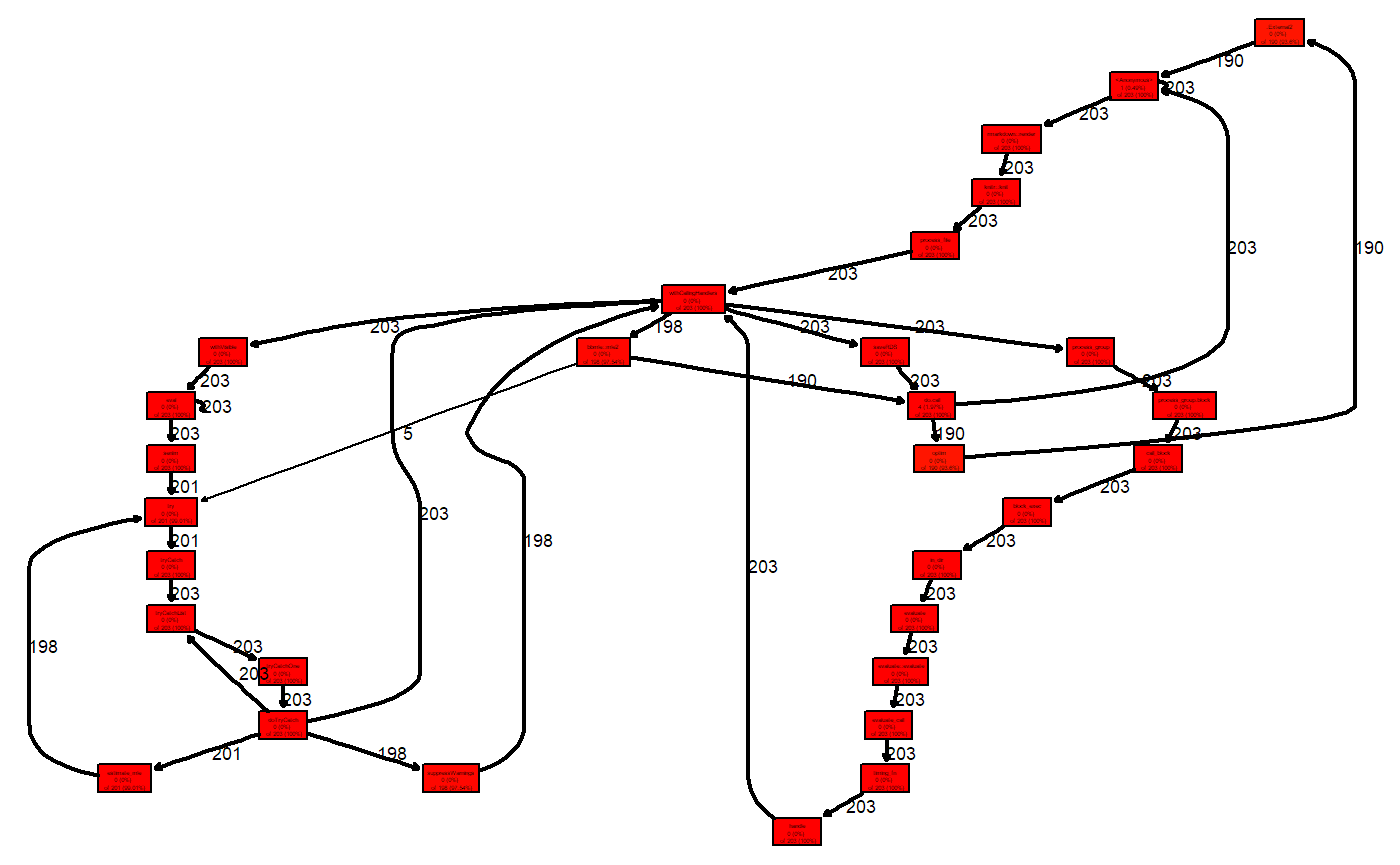
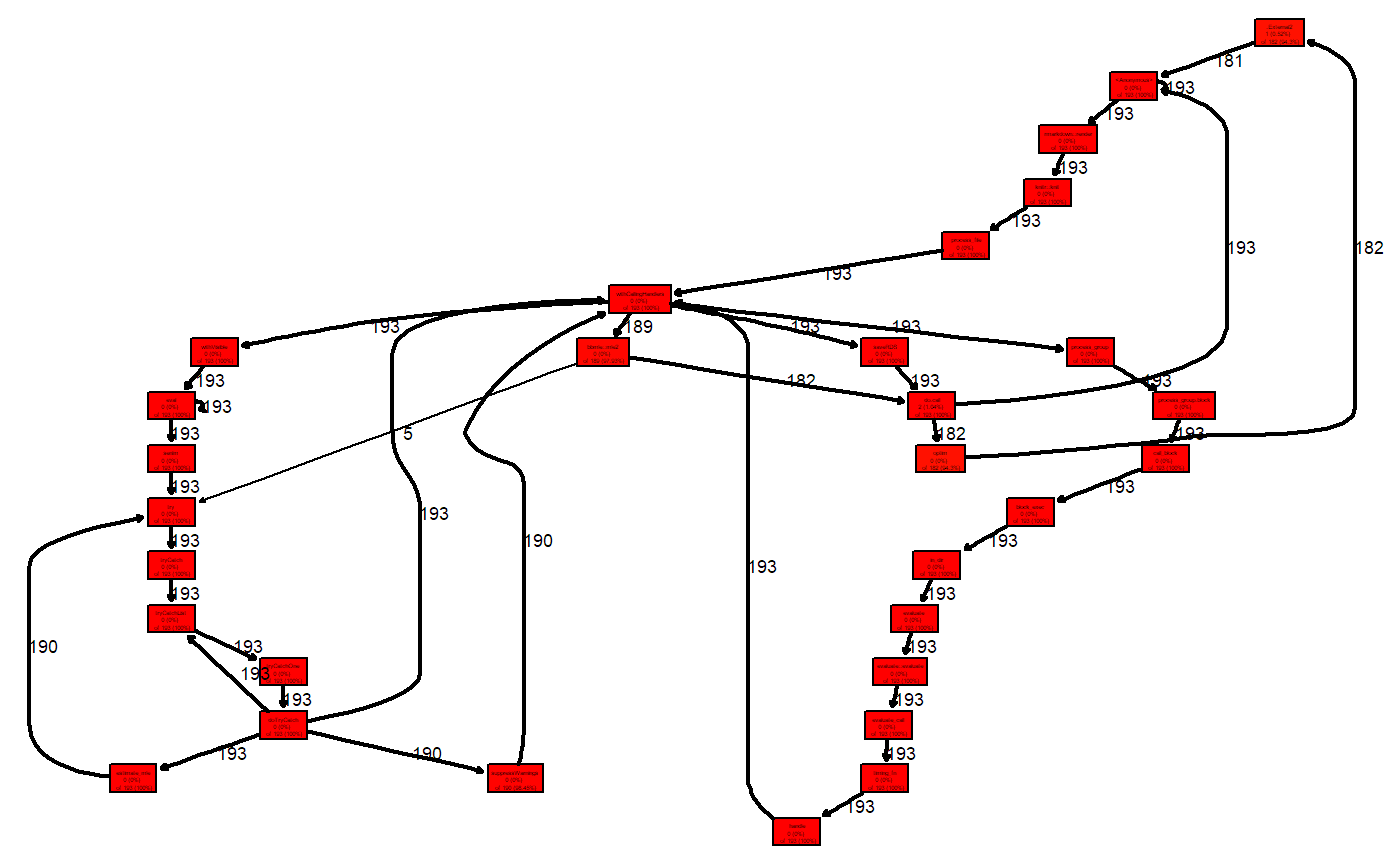
Rebuild the package's website.

diff --git a/docs/articles/performance_analysis.html b/docs/articles/performance_analysis.html
@@ -140,63 +140,60 @@
 <a class="sourceLine" id="cb2-4" title="4"><span class="co">## --- Summarise the Profiling Data --- #</span></a>
 <a class="sourceLine" id="cb2-5" title="5"><span class="kw">pathSummary</span>(pd)</a>
 <a class="sourceLine" id="cb2-6" title="6"><span class="co">#&gt;                                                    total.pct</span></a>
-<a class="sourceLine" id="cb2-7" title="7"><span class="co">#&gt; ...  fn -&gt; do.call -&gt; minuslogl -&gt; NLL.discrete        26.60</span></a>
-<a class="sourceLine" id="cb2-8" title="8"><span class="co">#&gt; ...  NLL.discrete -&gt; do.call -&gt; mu_gaussian            13.79</span></a>
-<a class="sourceLine" id="cb2-9" title="9"><span class="co">#&gt; ...  check_par_valid -&gt; make_bounded                    7.88</span></a>
-<a class="sourceLine" id="cb2-10" title="10"><span class="co">#&gt; ...  minuslogl -&gt; NLL.discrete -&gt; NLL.negbin            4.43</span></a>
-<a class="sourceLine" id="cb2-11" title="11"><span class="co">#&gt; ...  minuslogl -&gt; NLL.discrete -&gt; make_bounded          3.94</span></a>
-<a class="sourceLine" id="cb2-12" title="12"><span class="co">#&gt; ...  NLL.discrete -&gt; NLL.negbin -&gt; lfactorial           3.45</span></a>
-<a class="sourceLine" id="cb2-13" title="13"><span class="co">#&gt; ...  optim -&gt; .External2 -&gt; &lt;Anonymous&gt; -&gt; fn           2.96</span></a>
-<a class="sourceLine" id="cb2-14" title="14"><span class="co">#&gt; ...  do.call -&gt; mu_gaussian -&gt; as.list                  2.96</span></a>
-<a class="sourceLine" id="cb2-15" title="15"><span class="co">#&gt; ...  relist2 -&gt; sapply -&gt; simplify2array -&gt; unique      2.46</span></a>
-<a class="sourceLine" id="cb2-16" title="16"><span class="co">#&gt; ...  fn -&gt; relist2 -&gt; sapply -&gt; lapply                  2.46</span></a>
-<a class="sourceLine" id="cb2-17" title="17"><span class="co">#&gt; ...  fn -&gt; do.call -&gt; namedrop -&gt; seq                   2.46</span></a>
-<a class="sourceLine" id="cb2-18" title="18"><span class="co">#&gt; ...  simplify2array -&gt; unique -&gt; unique.default         1.48</span></a>
-<a class="sourceLine" id="cb2-19" title="19"><span class="co">#&gt; ...  NLL.discrete -&gt; NLL.negbin -&gt; sum                  1.48</span></a>
-<a class="sourceLine" id="cb2-20" title="20"><span class="co">#&gt; ...  NLL.discrete -&gt; check_par_valid -&gt; $               1.48</span></a>
-<a class="sourceLine" id="cb2-21" title="21"><span class="co">#&gt; ...  fn -&gt; relist2 -&gt; sapply -&gt; lapply -&gt; FUN           1.48</span></a>
-<a class="sourceLine" id="cb2-22" title="22"><span class="co">#&gt; ...  &lt;Anonymous&gt; -&gt; fn -&gt; do.call -&gt; namedrop           1.48</span></a>
-<a class="sourceLine" id="cb2-23" title="23"><span class="co">#&gt; ...  relist2 -&gt; sapply -&gt; simplify2array -&gt; unlist      0.99</span></a>
-<a class="sourceLine" id="cb2-24" title="24"><span class="co">#&gt; ...  minuslogl -&gt; NLL.discrete -&gt; do.call               0.99</span></a>
-<a class="sourceLine" id="cb2-25" title="25"><span class="co">#&gt; ...  func -&gt; do.call -&gt; minuslogl -&gt; NLL.discrete       0.99</span></a>
-<a class="sourceLine" id="cb2-26" title="26"><span class="co">#&gt; ...  fn -&gt; relist2 -&gt; as.list -&gt; as.list.default        0.99</span></a>
-<a class="sourceLine" id="cb2-27" title="27"><span class="co">#&gt; ...  fn -&gt; do.call -&gt; namedrop -&gt; unique                0.99</span></a>
-<a class="sourceLine" id="cb2-28" title="28"><span class="co">#&gt; ...  do.call -&gt; namedrop -&gt; seq -&gt; seq.default          0.99</span></a>
-<a class="sourceLine" id="cb2-29" title="29"><span class="co">#&gt; ...  &lt;Anonymous&gt; -&gt; fn -&gt; relist2 -&gt; sapply             0.99</span></a>
-<a class="sourceLine" id="cb2-30" title="30"><span class="co">#&gt; ...  sapply -&gt; simplify2array -&gt; unique -&gt; lengths      0.49</span></a>
-<a class="sourceLine" id="cb2-31" title="31"><span class="co">#&gt; ...  registerS3methods -&gt; get -&gt; lazyLoadDBfetch        0.49</span></a>
-<a class="sourceLine" id="cb2-32" title="32"><span class="co">#&gt; ...  nlminb -&gt; .Call -&gt; objective -&gt; do.call            0.49</span></a>
-<a class="sourceLine" id="cb2-33" title="33"><span class="co">#&gt; ...  NLL.discrete -&gt; check_par_valid -&gt; any             0.49</span></a>
-<a class="sourceLine" id="cb2-34" title="34"><span class="co">#&gt; ...  mu_gaussian -&gt; as.list -&gt; as.list.default          0.49</span></a>
-<a class="sourceLine" id="cb2-35" title="35"><span class="co">#&gt; ...  minuslogl -&gt; NLL.discrete -&gt; do.call -&gt; paste      0.49</span></a>
-<a class="sourceLine" id="cb2-36" title="36"><span class="co">#&gt; ...  minuslogl -&gt; NLL.discrete -&gt; check_par_valid       0.49</span></a>
-<a class="sourceLine" id="cb2-37" title="37"><span class="co">#&gt; ...  fn -&gt; relist2 -&gt; sapply -&gt; simplify2array          0.49</span></a>
-<a class="sourceLine" id="cb2-38" title="38"><span class="co">#&gt; ...  fn -&gt; relist2 -&gt; sapply -&gt; match.fun               0.49</span></a>
-<a class="sourceLine" id="cb2-39" title="39"><span class="co">#&gt; ...  fn -&gt; relist2 -&gt; sapply -&gt; isFALSE                 0.49</span></a>
-<a class="sourceLine" id="cb2-40" title="40"><span class="co">#&gt; ...  fn -&gt; namedrop -&gt; seq -&gt; seq.default -&gt; nargs      0.49</span></a>
-<a class="sourceLine" id="cb2-41" title="41"><span class="co">#&gt; ...  fit_information_criteria -&gt; make_unbounded         0.49</span></a>
-<a class="sourceLine" id="cb2-42" title="42"><span class="co">#&gt; ...  eval -&gt; senlm -&gt; set_nll -&gt; lazyLoadDBfetch        0.49</span></a>
-<a class="sourceLine" id="cb2-43" title="43"><span class="co">#&gt; ...  do.call -&gt; optim -&gt; .External2 -&gt; &lt;Anonymous&gt;      0.49</span></a>
-<a class="sourceLine" id="cb2-44" title="44"><span class="co">#&gt; ...  do.call -&gt; minuslogl -&gt; NLL.discrete -&gt; sum        0.49</span></a>
-<a class="sourceLine" id="cb2-45" title="45"><span class="co">#&gt; ...  do.call -&gt; minuslogl -&gt; NLL.discrete -&gt; $          0.49</span></a>
-<a class="sourceLine" id="cb2-46" title="46"><span class="co">#&gt; ...  &lt;Anonymous&gt; -&gt; lazyLoadDBfetch                     0.49</span></a>
-<a class="sourceLine" id="cb2-47" title="47"><span class="co">#&gt; ...  &lt;Anonymous&gt; -&gt; fn -&gt; relist2 -&gt; as.list            0.49</span></a>
-<a class="sourceLine" id="cb2-48" title="48"><span class="co">#&gt; ...  &lt;Anonymous&gt; -&gt; fn -&gt; namedrop -&gt; seq               0.49</span></a>
-<a class="sourceLine" id="cb2-49" title="49"><span class="co">#&gt; ...  &lt;Anonymous&gt; -&gt; fn -&gt; namedrop -&gt; length            0.49</span></a>
-<a class="sourceLine" id="cb2-50" title="50"><span class="co">#&gt; ...  .TableMetaName -&gt; methodsPackageMetaName           0.49</span></a>
-<a class="sourceLine" id="cb2-51" title="51"><span class="co">#&gt; ...  .External2 -&gt; &lt;Anonymous&gt; -&gt; fn -&gt; relist2         0.49</span></a>
-<a class="sourceLine" id="cb2-52" title="52"><span class="co">#&gt; ...  .External2 -&gt; &lt;Anonymous&gt; -&gt; fn -&gt; order           0.49</span></a>
-<a class="sourceLine" id="cb2-53" title="53"><span class="co">#&gt; ...  .External2 -&gt; &lt;Anonymous&gt; -&gt; fn -&gt; namedrop        0.49</span></a>
-<a class="sourceLine" id="cb2-54" title="54"><span class="co">#&gt; ...  .External2 -&gt; &lt;Anonymous&gt; -&gt; fn -&gt; do.call         0.49</span></a>
-<a class="sourceLine" id="cb2-55" title="55"><span class="co">##funSummary(pd)</span></a>
-<a class="sourceLine" id="cb2-56" title="56"><span class="co">##callSummary(pd)</span></a>
-<a class="sourceLine" id="cb2-57" title="57"><span class="co">##hotPaths(pd)</span></a>
-<a class="sourceLine" id="cb2-58" title="58"><span class="co">##flatProfile(pd)</span></a>
-<a class="sourceLine" id="cb2-59" title="59"></a>
-<a class="sourceLine" id="cb2-60" title="60"><span class="co">## --- Annotate Sourcecode with Profiling Data -- #</span></a>
-<a class="sourceLine" id="cb2-61" title="61"><span class="co"># annotateSource is very useful, but won't work within a vignette.</span></a>
-<a class="sourceLine" id="cb2-62" title="62"><span class="co">#annotateSource(pd, show = TRUE)</span></a>
-<a class="sourceLine" id="cb2-63" title="63"><span class="co">##srcSummary(pd)</span></a></code></pre></div>
+<a class="sourceLine" id="cb2-7" title="7"><span class="co">#&gt; ...  fn -&gt; do.call -&gt; minuslogl -&gt; NLL.discrete        26.94</span></a>
+<a class="sourceLine" id="cb2-8" title="8"><span class="co">#&gt; ...  NLL.discrete -&gt; do.call -&gt; mu_gaussian            12.44</span></a>
+<a class="sourceLine" id="cb2-9" title="9"><span class="co">#&gt; ...  NLL.discrete -&gt; NLL.negbin -&gt; lfactorial           6.74</span></a>
+<a class="sourceLine" id="cb2-10" title="10"><span class="co">#&gt; ...  minuslogl -&gt; NLL.discrete -&gt; NLL.negbin            6.22</span></a>
+<a class="sourceLine" id="cb2-11" title="11"><span class="co">#&gt; ...  relist2 -&gt; sapply -&gt; simplify2array -&gt; unique      3.11</span></a>
+<a class="sourceLine" id="cb2-12" title="12"><span class="co">#&gt; ...  optim -&gt; .External2 -&gt; &lt;Anonymous&gt; -&gt; fn           3.11</span></a>
+<a class="sourceLine" id="cb2-13" title="13"><span class="co">#&gt; ...  minuslogl -&gt; NLL.discrete -&gt; make_bounded          3.11</span></a>
+<a class="sourceLine" id="cb2-14" title="14"><span class="co">#&gt; ...  check_par_valid -&gt; make_bounded                    3.11</span></a>
+<a class="sourceLine" id="cb2-15" title="15"><span class="co">#&gt; ...  minuslogl -&gt; NLL.discrete -&gt; do.call -&gt; paste      2.59</span></a>
+<a class="sourceLine" id="cb2-16" title="16"><span class="co">#&gt; ...  do.call -&gt; mu_gaussian -&gt; as.list                  2.59</span></a>
+<a class="sourceLine" id="cb2-17" title="17"><span class="co">#&gt; ...  minuslogl -&gt; NLL.discrete -&gt; check_par_valid       2.07</span></a>
+<a class="sourceLine" id="cb2-18" title="18"><span class="co">#&gt; ...  &lt;Anonymous&gt; -&gt; fn -&gt; do.call -&gt; minuslogl          2.07</span></a>
+<a class="sourceLine" id="cb2-19" title="19"><span class="co">#&gt; ...  simplify2array -&gt; unique -&gt; unique.default         1.55</span></a>
+<a class="sourceLine" id="cb2-20" title="20"><span class="co">#&gt; ...  mu_gaussian -&gt; as.list -&gt; as.list.default          1.55</span></a>
+<a class="sourceLine" id="cb2-21" title="21"><span class="co">#&gt; ...  fn -&gt; relist2 -&gt; sapply -&gt; match.fun               1.55</span></a>
+<a class="sourceLine" id="cb2-22" title="22"><span class="co">#&gt; ...  &lt;Anonymous&gt; -&gt; fn -&gt; relist2 -&gt; as.list            1.55</span></a>
+<a class="sourceLine" id="cb2-23" title="23"><span class="co">#&gt; ...  minuslogl -&gt; NLL.discrete -&gt; do.call               1.04</span></a>
+<a class="sourceLine" id="cb2-24" title="24"><span class="co">#&gt; ...  fn -&gt; relist2 -&gt; sapply -&gt; lapply                  1.04</span></a>
+<a class="sourceLine" id="cb2-25" title="25"><span class="co">#&gt; ...  fn -&gt; relist2 -&gt; sapply -&gt; isFALSE                 1.04</span></a>
+<a class="sourceLine" id="cb2-26" title="26"><span class="co">#&gt; ...  fn -&gt; do.call -&gt; namedrop -&gt; seq                   1.04</span></a>
+<a class="sourceLine" id="cb2-27" title="27"><span class="co">#&gt; ...  do.call -&gt; minuslogl -&gt; NLL.discrete -&gt; $          1.04</span></a>
+<a class="sourceLine" id="cb2-28" title="28"><span class="co">#&gt; ...  &lt;Anonymous&gt; -&gt; fn -&gt; relist2 -&gt; sapply             1.04</span></a>
+<a class="sourceLine" id="cb2-29" title="29"><span class="co">#&gt; ...  &lt;Anonymous&gt; -&gt; fn -&gt; namedrop -&gt; seq               1.04</span></a>
+<a class="sourceLine" id="cb2-30" title="30"><span class="co">#&gt; ...  .External2 -&gt; &lt;Anonymous&gt; -&gt; fn -&gt; relist2         1.04</span></a>
+<a class="sourceLine" id="cb2-31" title="31"><span class="co">#&gt; ...  .External2 -&gt; &lt;Anonymous&gt; -&gt; fn -&gt; namedrop        1.04</span></a>
+<a class="sourceLine" id="cb2-32" title="32"><span class="co">#&gt; ...  sapply -&gt; simplify2array -&gt; unique -&gt; lengths      0.52</span></a>
+<a class="sourceLine" id="cb2-33" title="33"><span class="co">#&gt; ...  relist2 -&gt; sapply -&gt; simplify2array -&gt; unlist      0.52</span></a>
+<a class="sourceLine" id="cb2-34" title="34"><span class="co">#&gt; ...  NLL.discrete -&gt; NLL.negbin -&gt; sum                  0.52</span></a>
+<a class="sourceLine" id="cb2-35" title="35"><span class="co">#&gt; ...  NLL.discrete -&gt; check_par_valid -&gt; is.nan          0.52</span></a>
+<a class="sourceLine" id="cb2-36" title="36"><span class="co">#&gt; ...  NLL.discrete -&gt; check_par_valid -&gt; is.finite       0.52</span></a>
+<a class="sourceLine" id="cb2-37" title="37"><span class="co">#&gt; ...  NLL.discrete -&gt; check_par_valid -&gt; any             0.52</span></a>
+<a class="sourceLine" id="cb2-38" title="38"><span class="co">#&gt; ...  NLL.discrete -&gt; check_par_valid -&gt; $               0.52</span></a>
+<a class="sourceLine" id="cb2-39" title="39"><span class="co">#&gt; ...  namedrop -&gt; unique -&gt; unique.default               0.52</span></a>
+<a class="sourceLine" id="cb2-40" title="40"><span class="co">#&gt; ...  lattice.options -&gt; .defaultLatticeOptions          0.52</span></a>
+<a class="sourceLine" id="cb2-41" title="41"><span class="co">#&gt; ...  getExportedValue -&gt; get0 -&gt; lazyLoadDBfetch        0.52</span></a>
+<a class="sourceLine" id="cb2-42" title="42"><span class="co">#&gt; ...  get -&gt; lazyLoadDBfetch                             0.52</span></a>
+<a class="sourceLine" id="cb2-43" title="43"><span class="co">#&gt; ...  func -&gt; do.call -&gt; minuslogl -&gt; NLL.discrete       0.52</span></a>
+<a class="sourceLine" id="cb2-44" title="44"><span class="co">#&gt; ...  fn -&gt; do.call -&gt; namedrop -&gt; unique                0.52</span></a>
+<a class="sourceLine" id="cb2-45" title="45"><span class="co">#&gt; ...  do.call -&gt; minuslogl -&gt; NLL.discrete -&gt; sum        0.52</span></a>
+<a class="sourceLine" id="cb2-46" title="46"><span class="co">#&gt; ...  do.call -&gt; minuslogl -&gt; NLL.discrete               0.52</span></a>
+<a class="sourceLine" id="cb2-47" title="47"><span class="co">#&gt; ...  bbmle::mle2 -&gt; do.call -&gt; optim -&gt; .External2      0.52</span></a>
+<a class="sourceLine" id="cb2-48" title="48"><span class="co">#&gt; ...  all.equal -&gt; all.equal.numeric -&gt; any              0.52</span></a>
+<a class="sourceLine" id="cb2-49" title="49"><span class="co">#&gt; ...  &lt;Anonymous&gt; -&gt; lazyLoadDBfetch                     0.52</span></a>
+<a class="sourceLine" id="cb2-50" title="50"><span class="co">#&gt; ...  &lt;Anonymous&gt; -&gt; fn -&gt; relist2 -&gt; all                0.52</span></a>
+<a class="sourceLine" id="cb2-51" title="51"><span class="co">#&gt; ...  .External2 -&gt; &lt;Anonymous&gt; -&gt; fn -&gt; unlist          0.52</span></a>
+<a class="sourceLine" id="cb2-52" title="52"><span class="co">##funSummary(pd)</span></a>
+<a class="sourceLine" id="cb2-53" title="53"><span class="co">##callSummary(pd)</span></a>
+<a class="sourceLine" id="cb2-54" title="54"><span class="co">##hotPaths(pd)</span></a>
+<a class="sourceLine" id="cb2-55" title="55"><span class="co">##flatProfile(pd)</span></a>
+<a class="sourceLine" id="cb2-56" title="56"></a>
+<a class="sourceLine" id="cb2-57" title="57"><span class="co">## --- Annotate Sourcecode with Profiling Data -- #</span></a>
+<a class="sourceLine" id="cb2-58" title="58"><span class="co"># annotateSource is very useful, but won't work within a vignette.</span></a>
+<a class="sourceLine" id="cb2-59" title="59"><span class="co">#annotateSource(pd, show = TRUE)</span></a>
+<a class="sourceLine" id="cb2-60" title="60"><span class="co">##srcSummary(pd)</span></a></code></pre></div>
   </div>
 
   <div class="col-md-3 hidden-xs hidden-sm" id="sidebar">

diff --git a/docs/articles/senlm.html b/docs/articles/senlm.html
@@ -1074,7 +1074,7 @@ P(Y_i=y_i \mid \theta_M, ~\theta_E, ~\theta_C, ~x_i)
 <a class="sourceLine" id="cb36-6" title="6"></a>
 <a class="sourceLine" id="cb36-7" title="7"><span class="op">$</span>theta</a>
 <a class="sourceLine" id="cb36-8" title="8">          H           m           s          pi </a>
-<a class="sourceLine" id="cb36-9" title="9"><span class="fl">817.5307528</span> <span class="fl">917.8020550</span> <span class="fl">225.5627489</span>   <span class="fl">0.5954255</span> </a>
+<a class="sourceLine" id="cb36-9" title="9"><span class="fl">817.5307550</span> <span class="fl">917.8020645</span> <span class="fl">225.5627492</span>   <span class="fl">0.5954251</span> </a>
 <a class="sourceLine" id="cb36-10" title="10"></a>
 <a class="sourceLine" id="cb36-11" title="11"><span class="op">$</span>IC</a>
 <a class="sourceLine" id="cb36-12" title="12">    npar      nll      AIC     AICc      BIC </a>

diff --git a/docs/index.html b/docs/index.html
@@ -88,7 +88,7 @@
 <div class="page-header"><h1 class="hasAnchor">
 <a href="#senlm" class="anchor"></a>SENLM</h1></div>
 <p><img src="reference/figures/eel.jpg" alt="Photo of an eel"></p>
-<p>An R package for modelling ecological data across gradients.</p>
+<p>An R package for modelling ecological data that is sampled across environmental gradients.</p>
 <p>See <a href="articles/senlm.html">Get Started</a> for instructions on how to install and use the package.</p>
 </div>
   </div>
